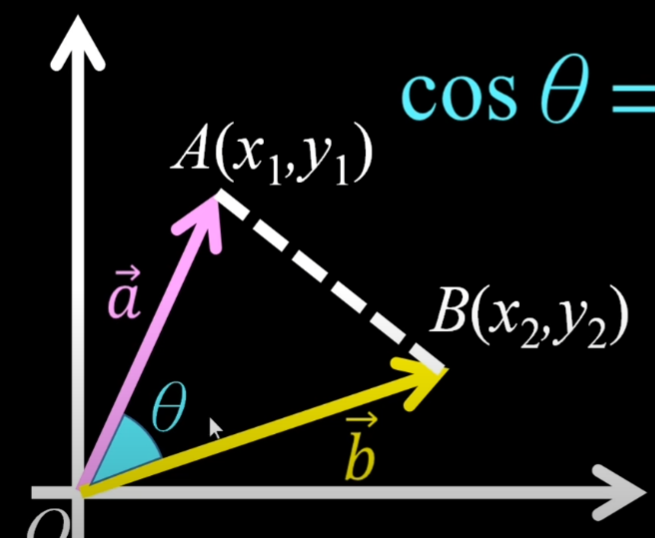
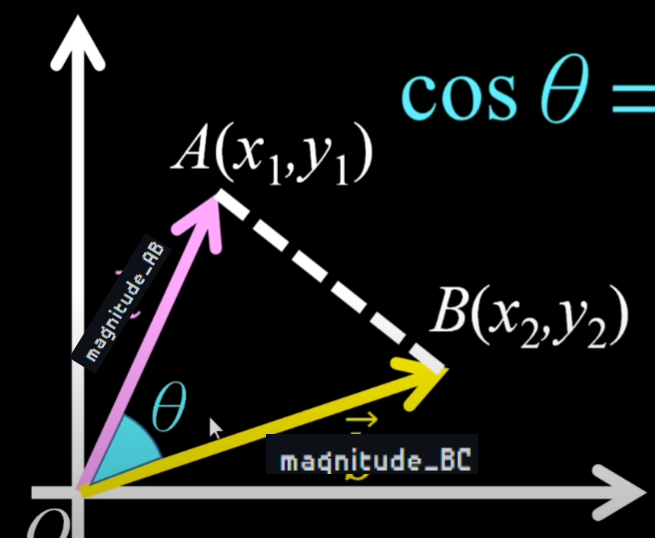
角度計算數學原理註解

Changed region(s): [[0.4275, 0.803, 0.7328, 0.8922], [0.0916, 0.4461, 0.2748, 0.684]]

diff --git a/main.py b/main.py
@@ -9,7 +9,9 @@ from tkinter import filedialog
 import os
 import threading
 
-#狀況一 多線程
+#多線程
+#數學原理
+#打包
 
 #mediapipe
 mpPose = mp.solutions.pose
@@ -44,24 +46,24 @@ def fps_show():
 #Figure_angle
 def Figure_angle(x1,y1,x2,y2,x3,y3):
     
-    # 計算A和B  B和C 的xy差
-    AB = (x2 - x1, y2 - y1)
-    BC = (x3 - x2, y3 - y2)
+    # 計算 AB 和 BC 的x y長度
+    a = (x2 - x1, y2 - y1)
+    b = (x3 - x2, y3 - y2)
     
-    # 計算 AB 和 BC 的內積(x1*x2 + y1*y2)
-    dot_product = AB[0] * BC[0] + AB[1] * BC[1]
+    # 計算 AB 和 BC 的向量大小(畢氏定理計算出向量的長度)
+    magnitude_AB = math.sqrt(a[0]**2 + a[1]**2) #AB線段
+    magnitude_BC = math.sqrt(b[0]**2 + b[1]**2) #BC線段
     
-    # 計算 AB 和 BC 的向量大小
-    magnitude_AB = math.sqrt(AB[0]**2 + AB[1]**2) #AB線段
-    magnitude_BC = math.sqrt(BC[0]**2 + BC[1]**2) #BC線段
-    
-    # 計算夾角的餘弦值
+    # 計算 AB 和 BC 的內積 (公式 : a ⋅ b = |a| |b| cosθ = x1x2 + y1y2 )
+    dot_product = a[0] * b[0] + a[1] * b[1]
+
+    # 計算夾角的cosθ (cosθ = a ⋅ b / |a| |b|)
     cosine_angle = dot_product / (magnitude_AB * magnitude_BC)
     
-    # 計算弧度值的夾角
+    # 把cosθ轉為兩邊夾角的弧度
     angle_radians = math.acos(cosine_angle)
     
-    # 將弧度轉換為度數
+    # 將弧度轉換為度數(角度)
     angle_deg = math.degrees(angle_radians)
     
     # 確定較小的夾角
